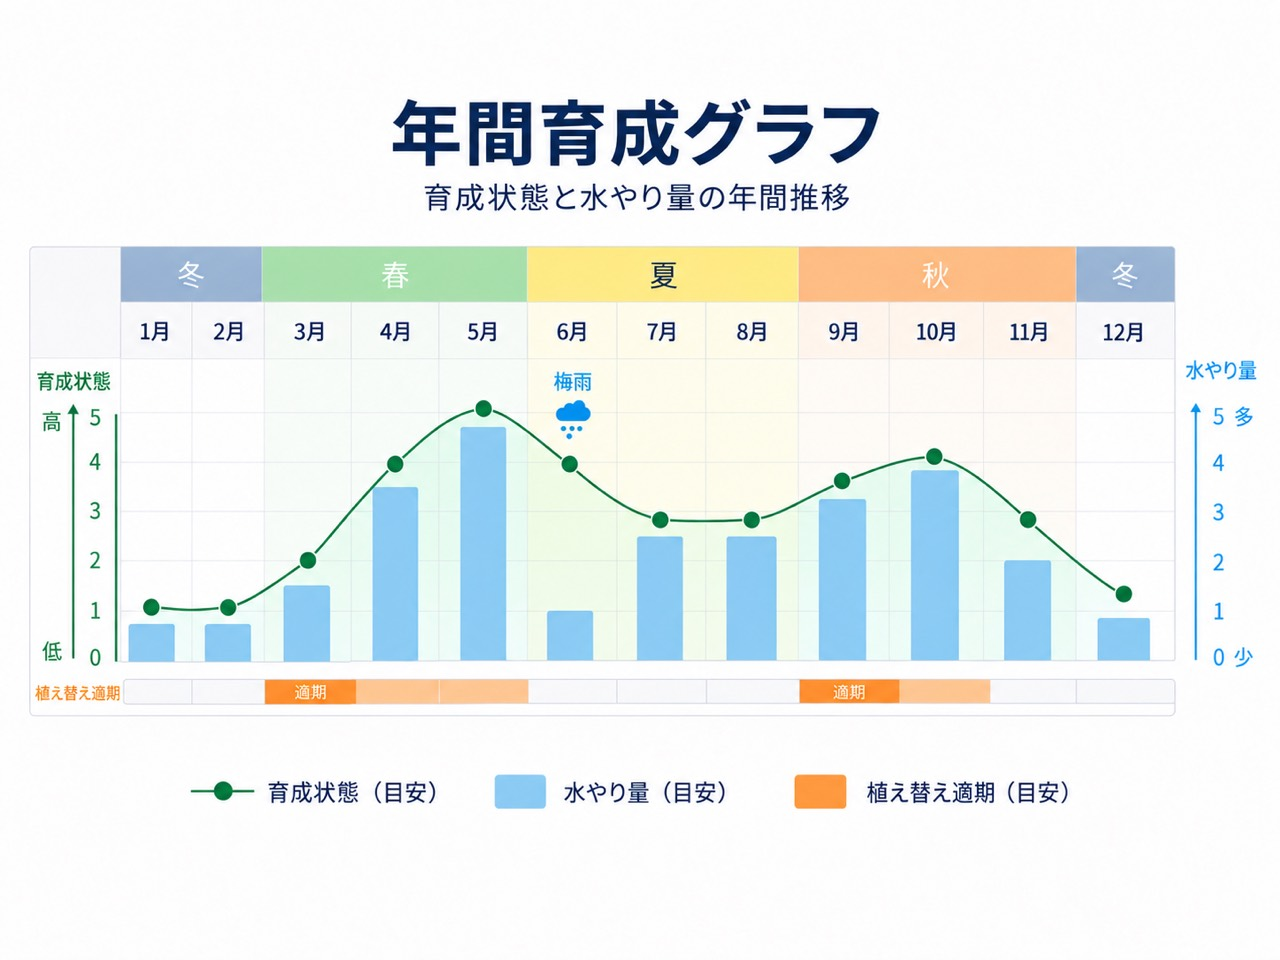
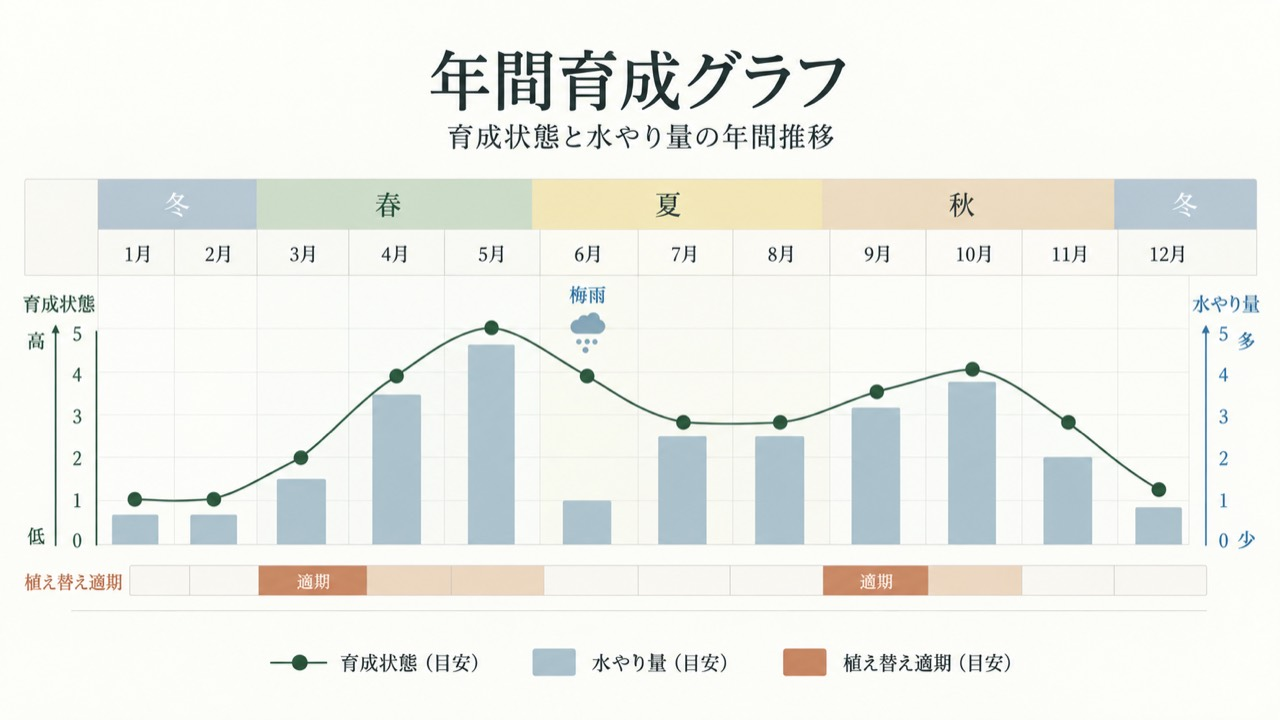
Replace care guide graphs and widen layout

diff --git a/app/globals.css b/app/globals.css
@@ -69,7 +69,7 @@ nav { display:flex; align-items:center; gap:30px; font-size:12px; font-weight:70
 .mother-filter { display:flex; align-items:center; justify-content:space-between; gap:25px; margin:0 0 28px; padding:0 0 20px; border-bottom:1px solid rgba(255,255,255,.22); }.mother-filter > p { margin:0; color:rgba(255,255,255,.62); font-size:10px; font-weight:700; letter-spacing:.12em; }.mother-filter > div { display:flex; flex-wrap:wrap; gap:8px; }.mother-filter button { border:1px solid rgba(255,255,255,.35); border-radius:20px; padding:8px 16px; background:transparent; color:white; font-size:11px; transition:background .2s,color .2s; }.mother-filter button:hover,.mother-filter button.active { border-color:var(--lime); background:var(--lime); color:var(--ink); }.mother-empty { margin:0; padding:32px 0; color:rgba(255,255,255,.68); text-align:center; font-size:12px; }
 .mother-id { display:flex; align-items:center; gap:14px; min-width:200px; white-space:nowrap; }.mother-image-button { position:relative; display:block; width:112px; height:112px; flex:0 0 auto; padding:0; overflow:hidden; border:1px solid rgba(255,255,255,.35); border-radius:3px; background:#183028; color:white; cursor:zoom-in; }.mother-thumb { width:100%; height:100%; object-fit:cover; object-position:center 54%; transition:transform .25s; }.mother-image-button:hover .mother-thumb { transform:scale(1.05); }.mother-image-button span { position:absolute; right:5px; bottom:5px; width:18px; height:18px; display:grid; place-items:center; border:1px solid rgba(255,255,255,.45); border-radius:50%; background:rgba(10,28,20,.35); font-size:12px; font-weight:400; line-height:1; opacity:.58; transition:opacity .2s; }.mother-image-button:hover span { opacity:.9; }.mother-id-code { display:flex; flex-direction:column; gap:7px; }.mother-id-code span { color:rgba(255,255,255,.56); font-family:monospace; font-size:8px; letter-spacing:.1em; }.mother-row-with-image td { padding-top:18px; padding-bottom:18px; }
 .image-modal-backdrop { position:fixed; inset:0; z-index:100; display:grid; place-items:center; padding:30px; background:rgba(4,13,9,.9); backdrop-filter:blur(7px); }.image-modal-content { position:relative; width:min(100%,1050px); color:white; }.image-modal-close { position:absolute; z-index:2; top:14px; right:14px; width:42px; height:42px; border:1px solid rgba(255,255,255,.45); border-radius:50%; background:rgba(4,13,9,.42); color:white; font-size:27px; line-height:1; cursor:pointer; }.image-modal-heading { display:flex; align-items:baseline; justify-content:space-between; gap:20px; margin:0 0 13px; }.image-modal-heading span { color:var(--lime); font-family:monospace; font-size:12px; letter-spacing:.12em; }.image-modal-heading p { margin:0; color:rgba(255,255,255,.7); font-size:10px; }.image-modal-stage { position:relative; height:min(72vh,760px); display:grid; place-items:center; overflow:hidden; background:rgba(0,0,0,.38); cursor:zoom-in; touch-action:none; }.image-modal-stage.is-zoomed { cursor:grab; }.image-modal-stage.is-panning { cursor:grabbing; }.image-modal-stage img { width:auto; height:auto; max-width:76vw; max-height:70vh; object-fit:contain; transform-origin:center; transition:transform .15s ease-out; }.image-modal-nav { position:absolute; z-index:1; top:50%; width:42px; height:42px; border:1px solid rgba(255,255,255,.55); border-radius:50%; background:rgba(4,13,9,.38); color:white; font-size:22px; line-height:1; transform:translateY(-50%); cursor:pointer; }.image-modal-nav:hover { background:rgba(255,255,255,.16); }.image-modal-nav:disabled { cursor:default; opacity:.2; }.image-modal-nav-prev { left:16px; }.image-modal-nav-next { right:16px; }.image-modal-footer { display:grid; grid-template-columns:1fr auto 1fr; align-items:center; gap:18px; margin-top:16px; }.image-modal-controls { grid-column:2; display:flex; align-items:center; justify-content:center; gap:15px; }.image-modal-controls button { width:38px; height:38px; border:1px solid rgba(255,255,255,.6); border-radius:50%; background:transparent; color:white; font-size:22px; cursor:pointer; }.image-modal-controls .image-modal-reset { width:auto; min-width:70px; padding:0 14px; border-radius:20px; font-size:11px; }.image-modal-controls button:disabled { cursor:not-allowed; opacity:.35; }.image-modal-controls span { min-width:45px; font-family:monospace; font-size:11px; text-align:center; }.image-modal-detail-link { grid-column:3; justify-self:end; display:inline-flex; align-items:center; gap:7px; padding:5px 0; border-bottom:1px solid rgba(255,255,255,.5); color:rgba(255,255,255,.82); font-size:11px; font-weight:700; letter-spacing:.03em; transition:color .2s,border-color .2s; white-space:nowrap; }.image-modal-detail-link b { font-size:16px; font-weight:400; line-height:1; transition:transform .2s; }.image-modal-detail-link:hover { border-color:var(--lime); color:var(--lime); }.image-modal-detail-link:hover b { transform:translateX(3px); }
-.guide-section { background:#f2f0e7; }.guide-introduction { max-width:900px; margin:0 0 48px; padding:0 0 37px; border-bottom:1px solid #ccd2cd; }.guide-introduction .eyebrow { margin:0 0 12px; }.guide-introduction h2 { margin:0 0 26px; color:var(--green); font-family:Georgia,"Yu Mincho",serif; font-size:clamp(28px,3vw,39px); font-weight:400; letter-spacing:-.03em; }.guide-introduction > p:not(.eyebrow) { max-width:760px; margin:0 0 17px; color:var(--muted); font-size:14px; line-height:2; }.guide-introduction > p:last-child { margin-bottom:0; }.agave-annual-graph { max-width:900px; margin:0 0 64px; border:1px solid #ccd2cd; background:white; }.agave-annual-graph picture,.agave-annual-graph img { display:block; width:100%; height:auto; }.guide-grid { display:grid; grid-template-columns:repeat(3,1fr); border-top:1px solid #ccd2cd; border-left:1px solid #ccd2cd; }.guide-grid article { padding:35px; border-right:1px solid #ccd2cd; border-bottom:1px solid #ccd2cd; position:relative; }.guide-grid article > span { position:absolute; top:18px; right:19px; font-size:9px; color:#819088; }.guide-icon { font-size:42px; height:74px; }.guide-grid h3 { font-family:Georgia,"Yu Mincho",serif; font-size:24px; font-weight:400; margin:0 0 16px; }.guide-grid article > p:not(.eyebrow) { font-size:11px; line-height:1.9; color:var(--muted); min-height:65px; }.guide-grid a { font-size:10px; font-weight:700; }
+.guide-section { background:#f2f0e7; }.guide-content { width:min(100%,1280px); margin:0 auto; }.guide-introduction { max-width:1120px; margin:0 0 52px; padding:0 0 40px; border-bottom:1px solid #ccd2cd; }.guide-introduction .eyebrow { margin:0 0 12px; }.guide-introduction h2 { margin:0 0 26px; color:var(--green); font-family:Georgia,"Yu Mincho",serif; font-size:clamp(28px,3vw,39px); font-weight:400; letter-spacing:-.03em; }.guide-introduction > p:not(.eyebrow) { max-width:980px; margin:0 0 17px; color:var(--muted); font-size:14px; line-height:2; }.guide-introduction > p:last-child { margin-bottom:0; }.agave-annual-graph { max-width:1120px; margin:0 0 68px; border:1px solid #ccd2cd; background:white; }.agave-annual-graph picture,.agave-annual-graph img { display:block; width:100%; height:auto; }.guide-grid { display:grid; grid-template-columns:repeat(3,1fr); border-top:1px solid #ccd2cd; border-left:1px solid #ccd2cd; }.guide-grid article { padding:35px; border-right:1px solid #ccd2cd; border-bottom:1px solid #ccd2cd; position:relative; }.guide-grid article > span { position:absolute; top:18px; right:19px; font-size:9px; color:#819088; }.guide-icon { font-size:42px; height:74px; }.guide-grid h3 { font-family:Georgia,"Yu Mincho",serif; font-size:24px; font-weight:400; margin:0 0 16px; }.guide-grid article > p:not(.eyebrow) { font-size:11px; line-height:1.9; color:var(--muted); min-height:65px; }.guide-grid a { font-size:10px; font-weight:700; }
 .season-note { display:grid; grid-template-columns:170px 190px 1fr; align-items:center; background:white; padding:22px 28px; margin-top:25px; border-left:4px solid var(--lime); }.season-note .eyebrow { margin:0; }.season-note b { font-family:Georgia,"Yu Mincho",serif; font-size:18px; }.season-note > p:last-child { color:var(--muted); font-size:11px; }
 .shop-section { padding:110px 8vw; display:grid; grid-template-columns:1fr 1fr; gap:10vw; background:#dfe668; }.shop-section h2 { font-family:Georgia,"Yu Mincho",serif; font-weight:400; font-size:clamp(40px,5vw,70px); line-height:1.25; margin:0 0 25px; }.shop-section > div > p:last-child { max-width:480px; font-size:12px; line-height:2; }.shop-links { align-self:center; }.shop-links a { display:flex; justify-content:space-between; align-items:center; border-bottom:1px solid rgba(24,48,40,.35); padding:24px 6px; }.shop-links a:first-child { border-top:1px solid rgba(24,48,40,.35); }.shop-links small { display:block; font-size:9px; font-weight:400; margin-bottom:6px; }.shop-links span { font-family:Georgia,serif; font-size:22px; }.shop-links b { font-size:22px; transition:transform .2s; }.shop-links a:hover b { transform:translateX(5px); }
 footer { background:#132c23; color:white; display:grid; grid-template-columns:1.4fr 1fr 1fr; align-items:center; gap:20px; padding:55px 7vw 30px; }.footer-brand { align-self:start; }.footer-brand .brand-mark { border-color:white; }.footer-brand + p { font-family:Georgia,"Yu Mincho",serif; color:#bfc9c3; }.footer-brand ~ div { display:flex; gap:17px; justify-content:flex-end; font-size:10px; }.footer-brand ~ small { grid-column:1/-1; margin-top:35px; padding-top:18px; border-top:1px solid rgba(255,255,255,.15); color:#82928b; font-size:8px; letter-spacing:.12em; }

diff --git a/app/care-guide/page.tsx b/app/care-guide/page.tsx
@@ -18,7 +18,7 @@ const guideIntroduction = [
 export default function CareGuidePage() {
   return <main><Header />
     <section className="page-hero"><p className="eyebrow">CARE GUIDE</p><h1>栽培ガイド</h1></section>
-    <section className="section guide-section page-section"><div className="guide-introduction"><p className="eyebrow">BEFORE YOU BEGIN</p><h2>まず、植物の今の状態を見ます。</h2>{guideIntroduction.map((paragraph) => <p key={paragraph}>{paragraph}</p>)}</div><figure className="agave-annual-graph"><picture><source media="(max-width: 720px)" srcSet={siteHref('/agave-annual-graph-mobile-v2.png')} /><img src={siteHref('/agave-annual-graph-desktop-v2.png')} alt="アガベの年間育成グラフ。月ごとの育成状態、水やり量、植え替え適期を示す。" /></picture></figure><div className="guide-grid">{guides.map(([no, title, en, body]) => <article key={no}><span>{no}</span><div className="guide-icon" aria-hidden="true">{no === '01' ? '◐' : no === '02' ? '♢' : '≋'}</div><p className="eyebrow">{en}</p><h3>{title}を整える</h3><p>{body}</p></article>)}</div><div className="season-note"><p className="eyebrow">THIS MONTH / AUGUST</p><b>夏の管理メモ</b><p>強い西日と葉焼けに注意。水やり後は株元に風を通し、夜間の蒸れを避けます。</p></div></section>
+    <section className="section guide-section page-section"><div className="guide-content"><div className="guide-introduction"><p className="eyebrow">BEFORE YOU BEGIN</p><h2>まず、植物の今の状態を見ます。</h2>{guideIntroduction.map((paragraph) => <p key={paragraph}>{paragraph}</p>)}</div><figure className="agave-annual-graph"><picture><source media="(max-width: 720px)" srcSet={siteHref('/agave-annual-graph-mobile.jpg')} /><img src={siteHref('/agave-annual-graph-desktop.jpg')} alt="アガベの年間育成グラフ。月ごとの育成状態、水やり量、植え替え適期を示す。" /></picture></figure><div className="guide-grid">{guides.map(([no, title, en, body]) => <article key={no}><span>{no}</span><div className="guide-icon" aria-hidden="true">{no === '01' ? '◐' : no === '02' ? '♢' : '≋'}</div><p className="eyebrow">{en}</p><h3>{title}を整える</h3><p>{body}</p></article>)}</div><div className="season-note"><p className="eyebrow">THIS MONTH / AUGUST</p><b>夏の管理メモ</b><p>強い西日と葉焼けに注意。水やり後は株元に風を通し、夜間の蒸れを避けます。</p></div></div></section>
     <Footer />
   </main>;
 }
